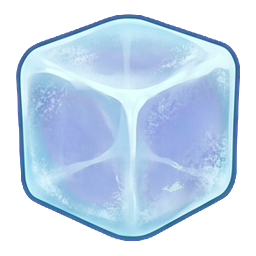
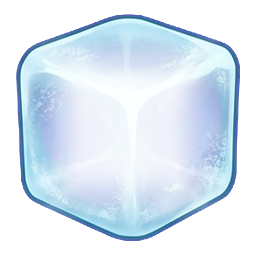
La glace laisse voir la couleur de la gemme
Sur les etapes gelees, on voyait la glace mais plus la piece dessous : impossible de
savoir de quelle couleur elle etait, donc impossible de prevoir un coup.

Le sprite du givre etait plein. Son centre avait une opacite de 255, en bleu tres
pale, et il etait pose devant la gemme a 58 % : la couleur disparaissait sous un
voile blanc. Baisser l'opacite globale n'aurait rien regle, le centre serait reste
voile et le givre serait devenu fade sur les bords.

Le centre du sprite est donc creuse, en gardant les bords francs et quelques reflets
au milieu, comme un cadre gelé plutot qu'un cache. Le givre peut alors etre pose plus
franchement sans rien masquer. Deux couches de glace restent bien distinctes d'une.

Rien ne change aux regles : ni la resistance de la glace, ni les coups, ni les scores.

diff --git a/unity/CrushRoyale/Assets/Scripts/Gameplay/BoardView.cs b/unity/CrushRoyale/Assets/Scripts/Gameplay/BoardView.cs
@@ -1,4 +1,4 @@
-using System;
+using System;
 using System.Collections;
 using System.Collections.Generic;
 using CrushRoyale.Core.Board;
@@ -1105,11 +1105,13 @@ namespace CrushRoyale.Game.Gameplay
             int layers = _iceLayers[y * Width + x];
             Image ice = _ice[y * Width + x];
             ice.enabled = layers > 0;
-            // Posee devant la gemme : assez opaque pour se voir sur n'importe quelle couleur, assez transparente
-            // pour qu'on lise encore la gemme dessous. Une deuxieme couche givre davantage.
+            // Posee devant la gemme. Le givre n'a plus de centre opaque, il ne reste qu'un cadre gelé avec
+            // quelques reflets au milieu, donc il peut rester franc sur les bords sans cacher la couleur de la
+            // piece. Il le cachait entierement avant : le sprite etait plein, et on ne distinguait plus de quelle
+            // gemme il s'agissait. Une deuxieme couche givre davantage.
             ice.color = ice.type == Image.Type.Sliced
-                ? new Color(0.75f, 0.92f, 1f, 0.30f + 0.16f * layers)
-                : new Color(1f, 1f, 1f, 0.42f + 0.16f * layers);
+                ? new Color(0.75f, 0.92f, 1f, 0.22f + 0.12f * layers)
+                : new Color(1f, 1f, 1f, 0.64f + 0.16f * layers);
         }
     }
 }
